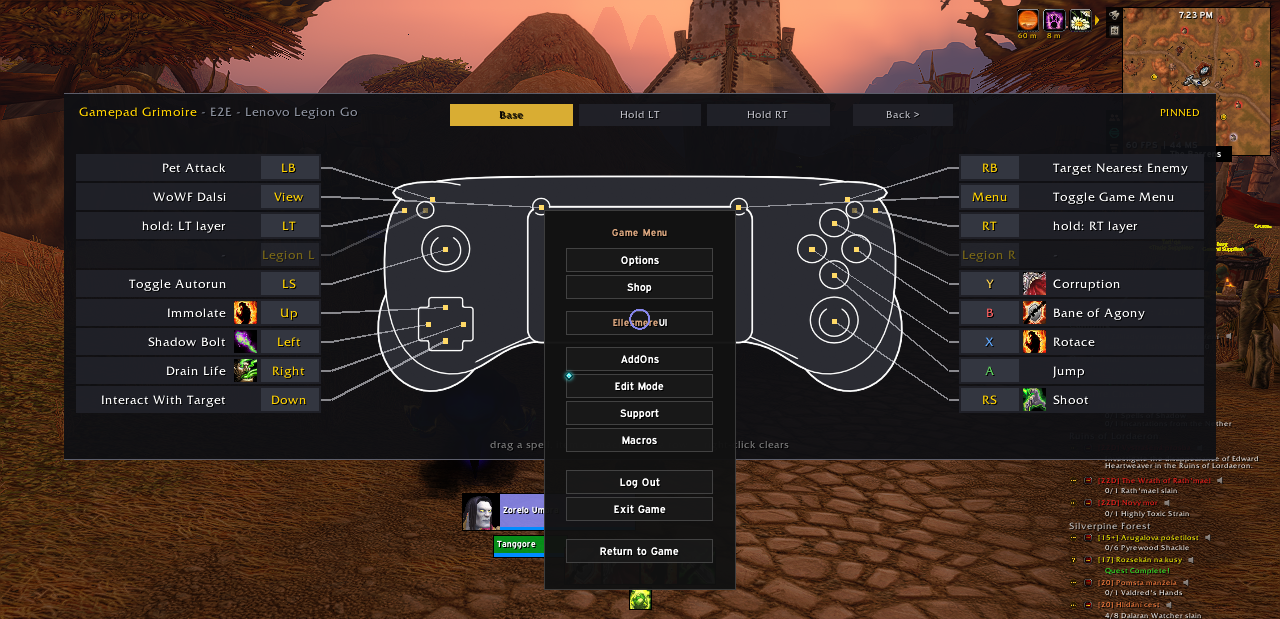
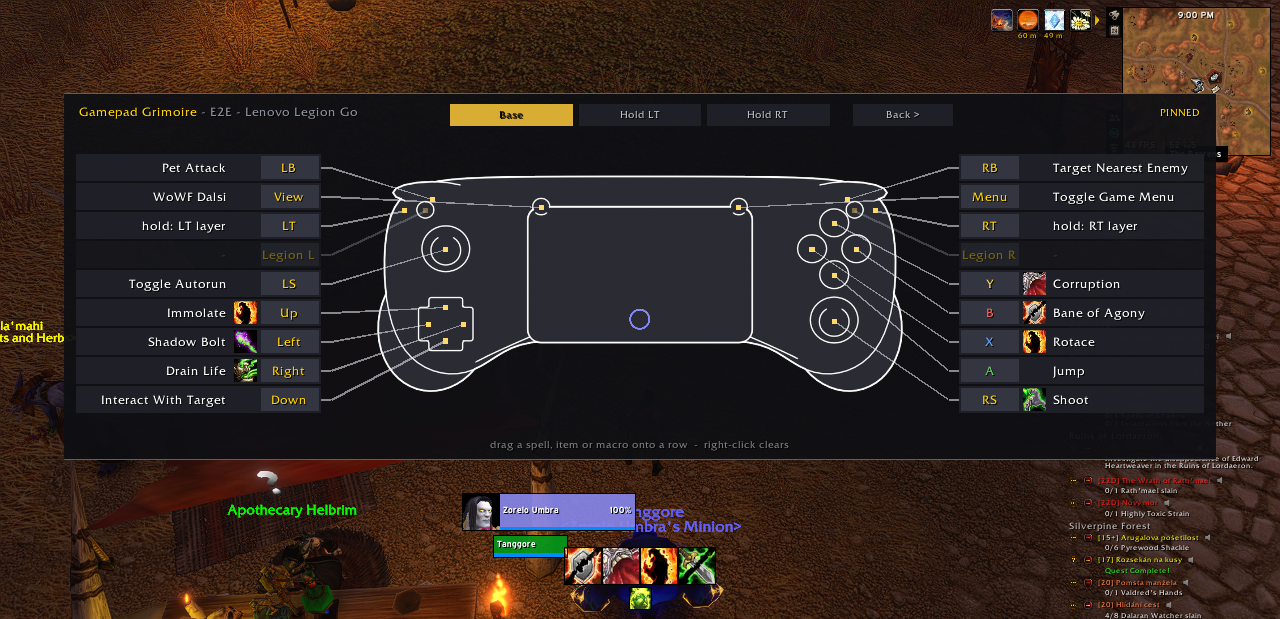
fix(repo): reload the UI before screenshots so no game menu leaks in
A stray WoW game menu left open before a run stayed open through the whole
scenario and sat in the middle of every card and setup screenshot. Reload the
UI at the start of the scenario (as the video demo already does) so the shots
start from a clean state, and re-capture docs/images.

diff --git a/tools/e2e/deck_e2e.py b/tools/e2e/deck_e2e.py
@@ -416,6 +416,9 @@ def scenario(deck, pad=True):
     print("== scenario")
     hide_battlenet(deck)  # keep Battle.net from stealing focus for the whole run
     deck.focus_wow()
+    deck.chat("/reload")  # clean UI so no stray game menu is in the screenshots
+    time.sleep(12)
+    deck.focus_wow()
     deck.chat("/gg diag")
     deck.chat("/gg profile use Default")
     deck.chat("/gg profile delete E2E")  # leftovers of an earlier run
